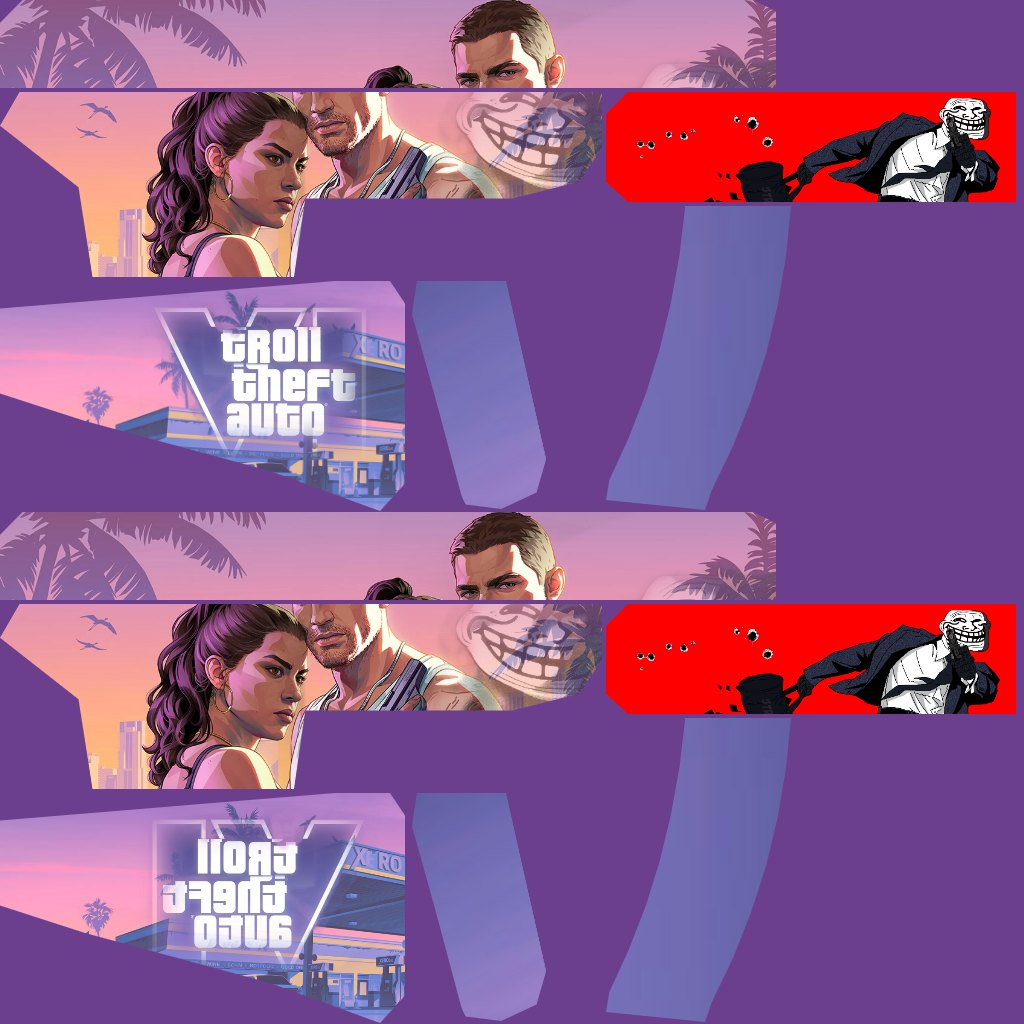
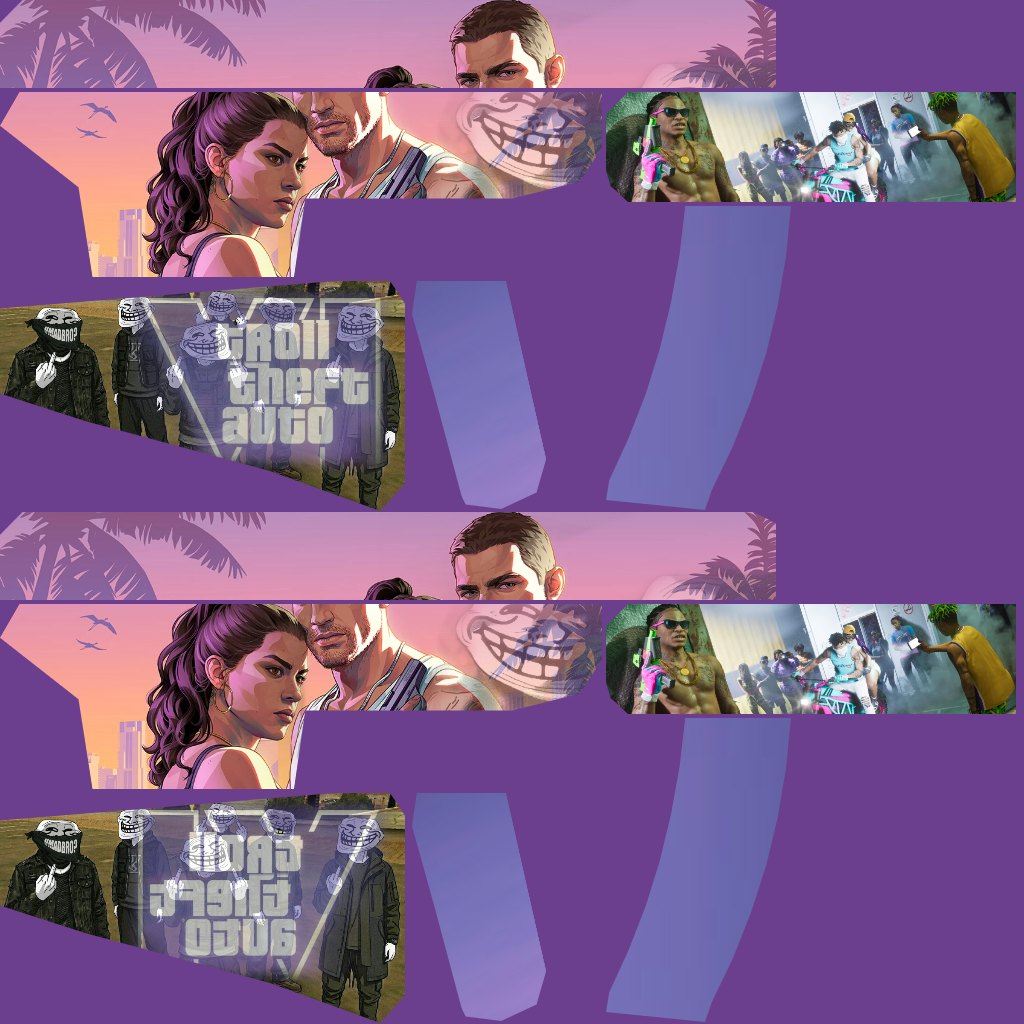
Vice Grin: final version (crew art stock, GTA 6 alley handguard)
The user's Final-locked Vice Grin from the skin editor: the San Andreas
troll crew on the stock, the GTA 6 alley shot on the handguard, and the
logo layer's updated erase mask.

diff --git a/assets/games/troll-ops/skins.js b/assets/games/troll-ops/skins.js
@@ -275,12 +275,12 @@ export const SKINS = [
     blurb: "Leonida sunset, fully loaded.",
     final: true,
     palette: { trim: "#6c3f8e", ink: "#fff4e8", metal: 0x2b2233, accent: 0xff8fb8 },
-    art: { grip: "vice-robbery.jpg", mag: { file: "vice-robbery.jpg", textAreas: [[0.502, 0.36, 0.593, 0.422]] }, stock: "vice-robbery.jpg", handguard: "banners/banner-04.jpg" },
-    layers: { receiver: [{ file: "banners/banner-11.jpg", src: [0.345, 0, 1, 1], at: [0.923, 0.587, 0.875], feather: 0.65, opacity: 0.65, id: "rkn0gy", mask: "vice-rkn0gy-mujaulpy.png", lock: 1 }], stock: [{ id: "8osvw2", file: "skin-art/vice-robbery-troll.jpg", src: [0.044, 0.05, 0.376, 0.486], at: [0.64, 0.42, 0.595], text: 1, feather: 0.3, mask: "vice-8osvw2-mukf0xmd.png" }] },
+    art: { grip: "vice-robbery.jpg", mag: { file: "vice-robbery.jpg", textAreas: [[0.502, 0.36, 0.593, 0.422]] }, stock: "troll-crew-san-andreas.jpg", handguard: "gta6-troll-skin-part.jpg" },
+    layers: { receiver: [{ file: "banners/banner-11.jpg", src: [0.345, 0, 1, 1], at: [0.923, 0.587, 0.875], feather: 0.65, opacity: 0.65, id: "rkn0gy", mask: "vice-rkn0gy-mujaulpy.png", lock: 1 }], stock: [{ id: "8osvw2", file: "skin-art/vice-robbery-troll.jpg", src: [0.044, 0.05, 0.376, 0.486], at: [0.64, 0.42, 0.676], text: 1, feather: 0.15, opacity: 0.65, lock: 1, mask: "vice-8osvw2-mukhm6ar.png" }] },
     crops: {
       receiver: [0.5, 0.344, 1],
-      handguard: [0.5, 0.5, 1],
-      stock: [0.229, 0.731, 0.448],
+      handguard: [0.369, 0.413, 0.746, 17.019],
+      stock: [0.489, 0.627, 0.977],
       grip: [0.034, 0.348, 0.074, 26.983],
       mag: [0.056, 0.283, 0.051, -90],
     },
